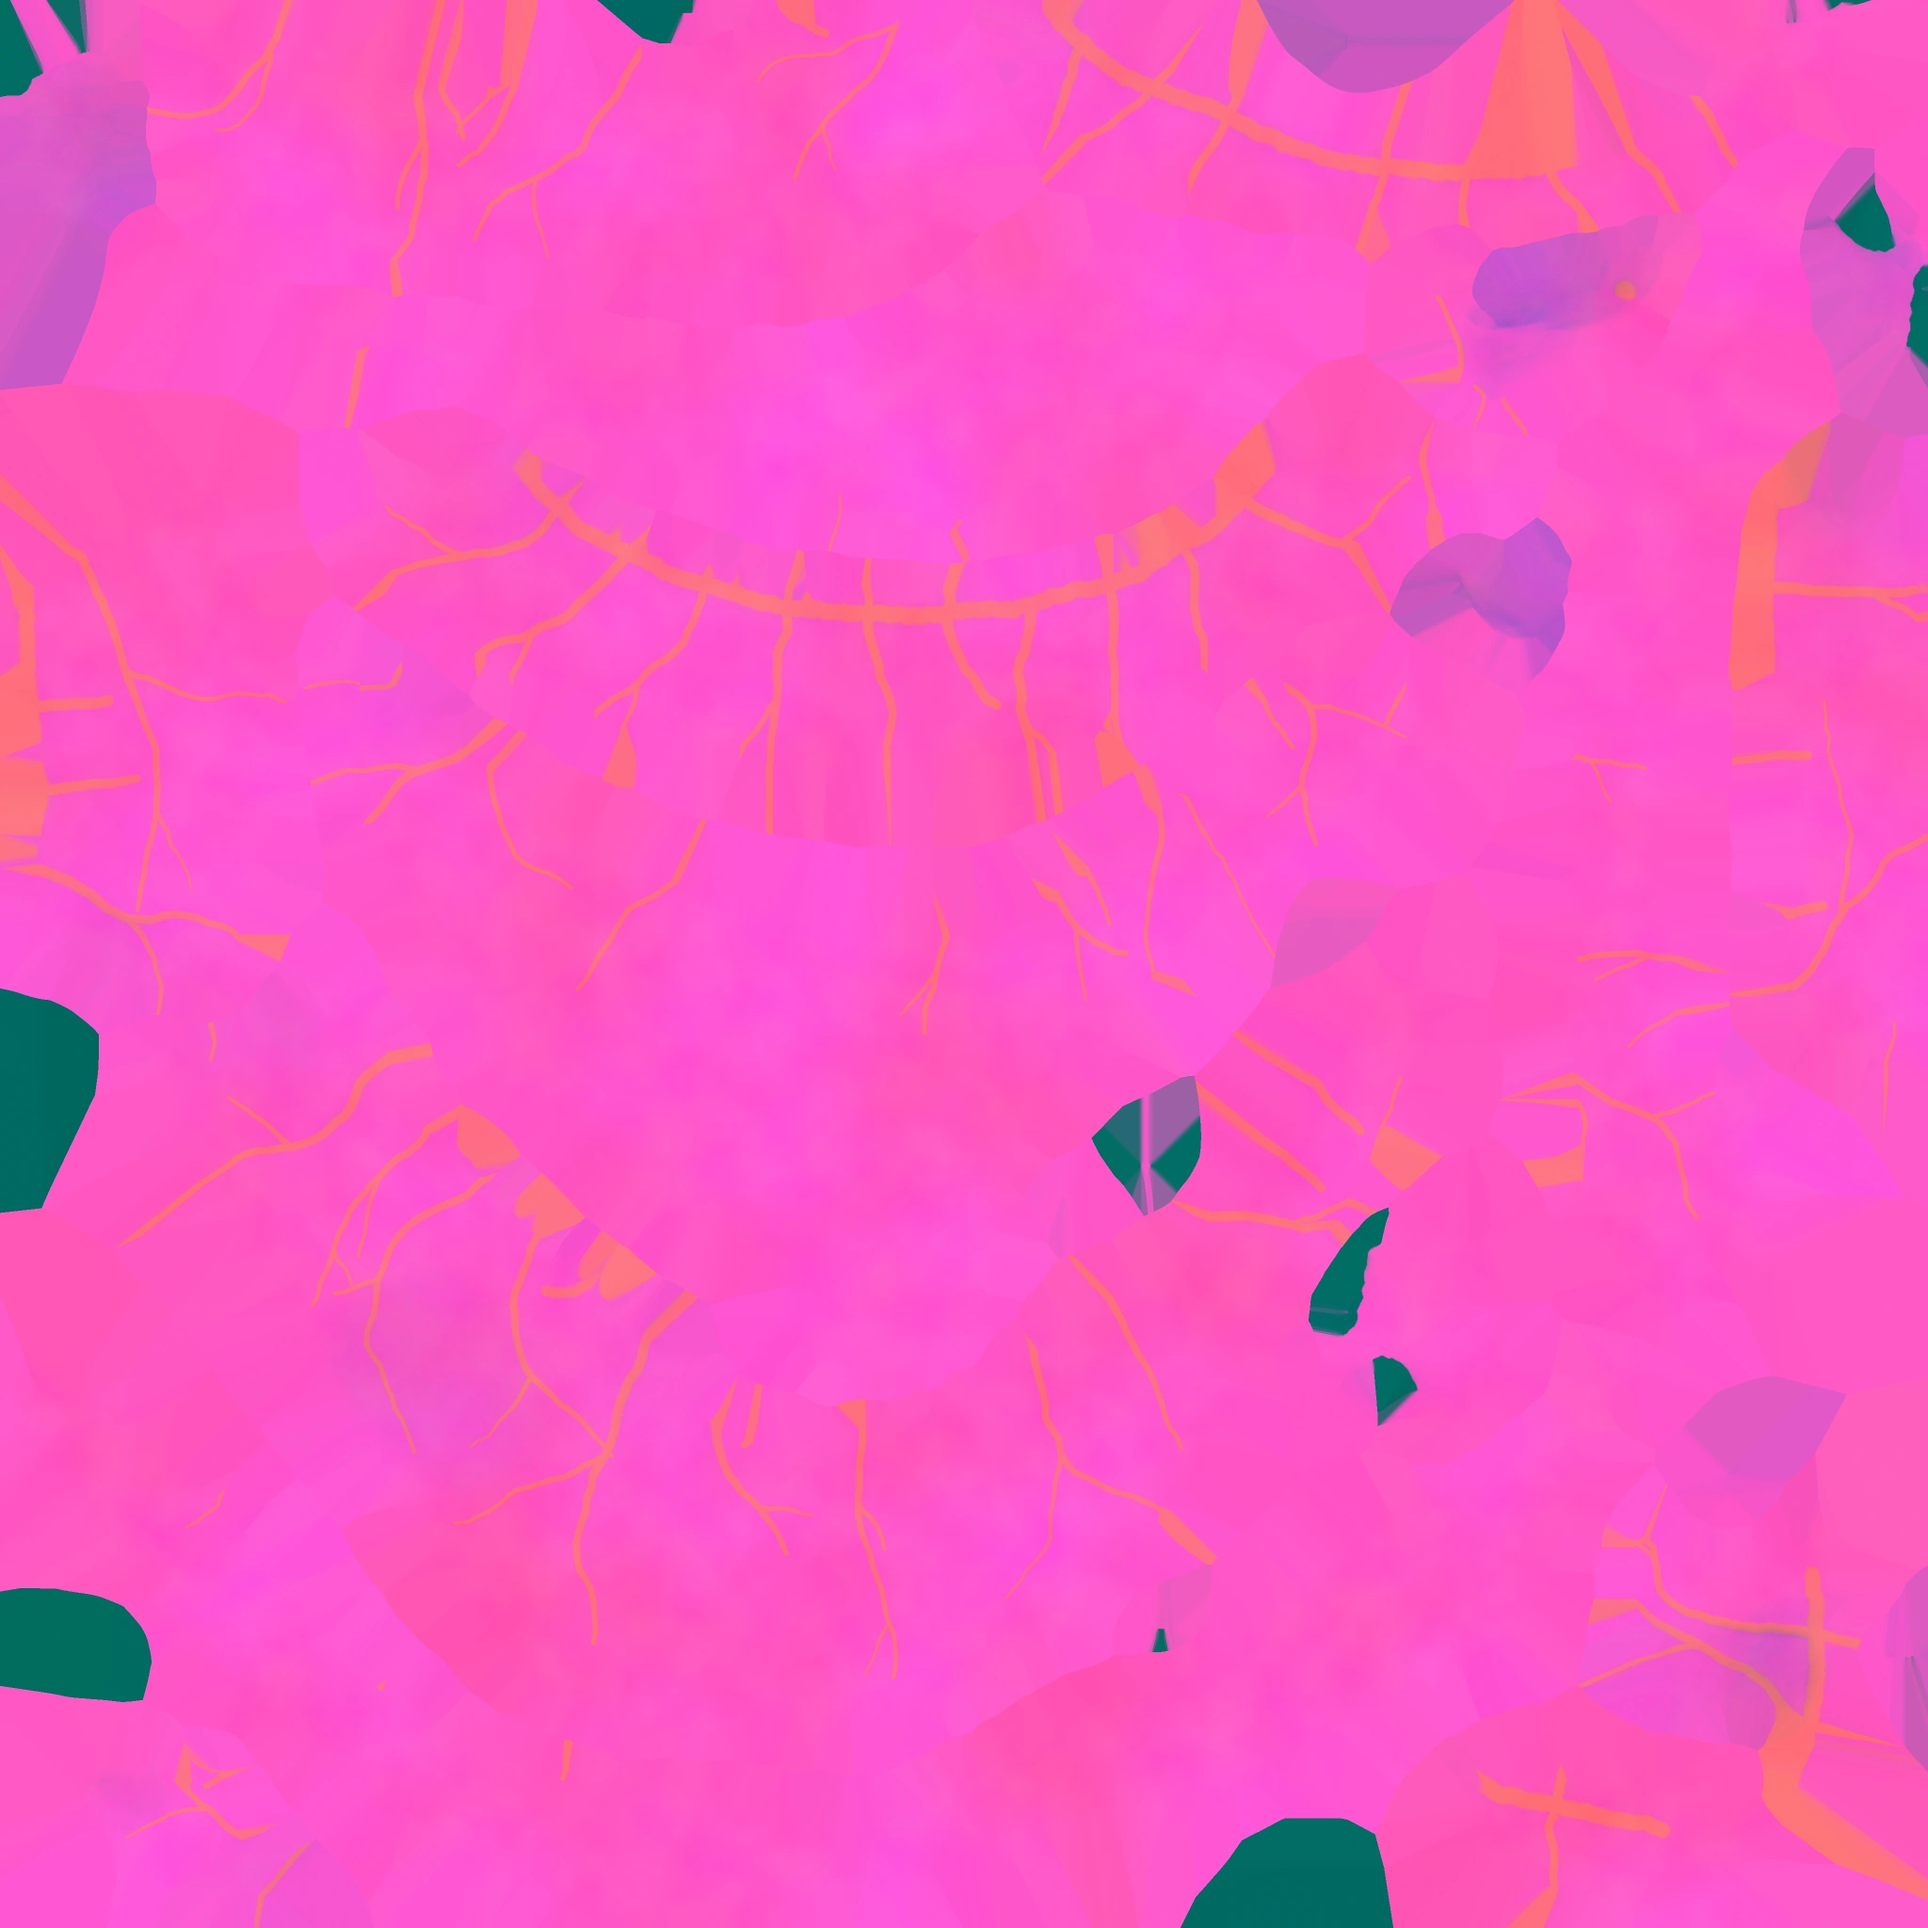
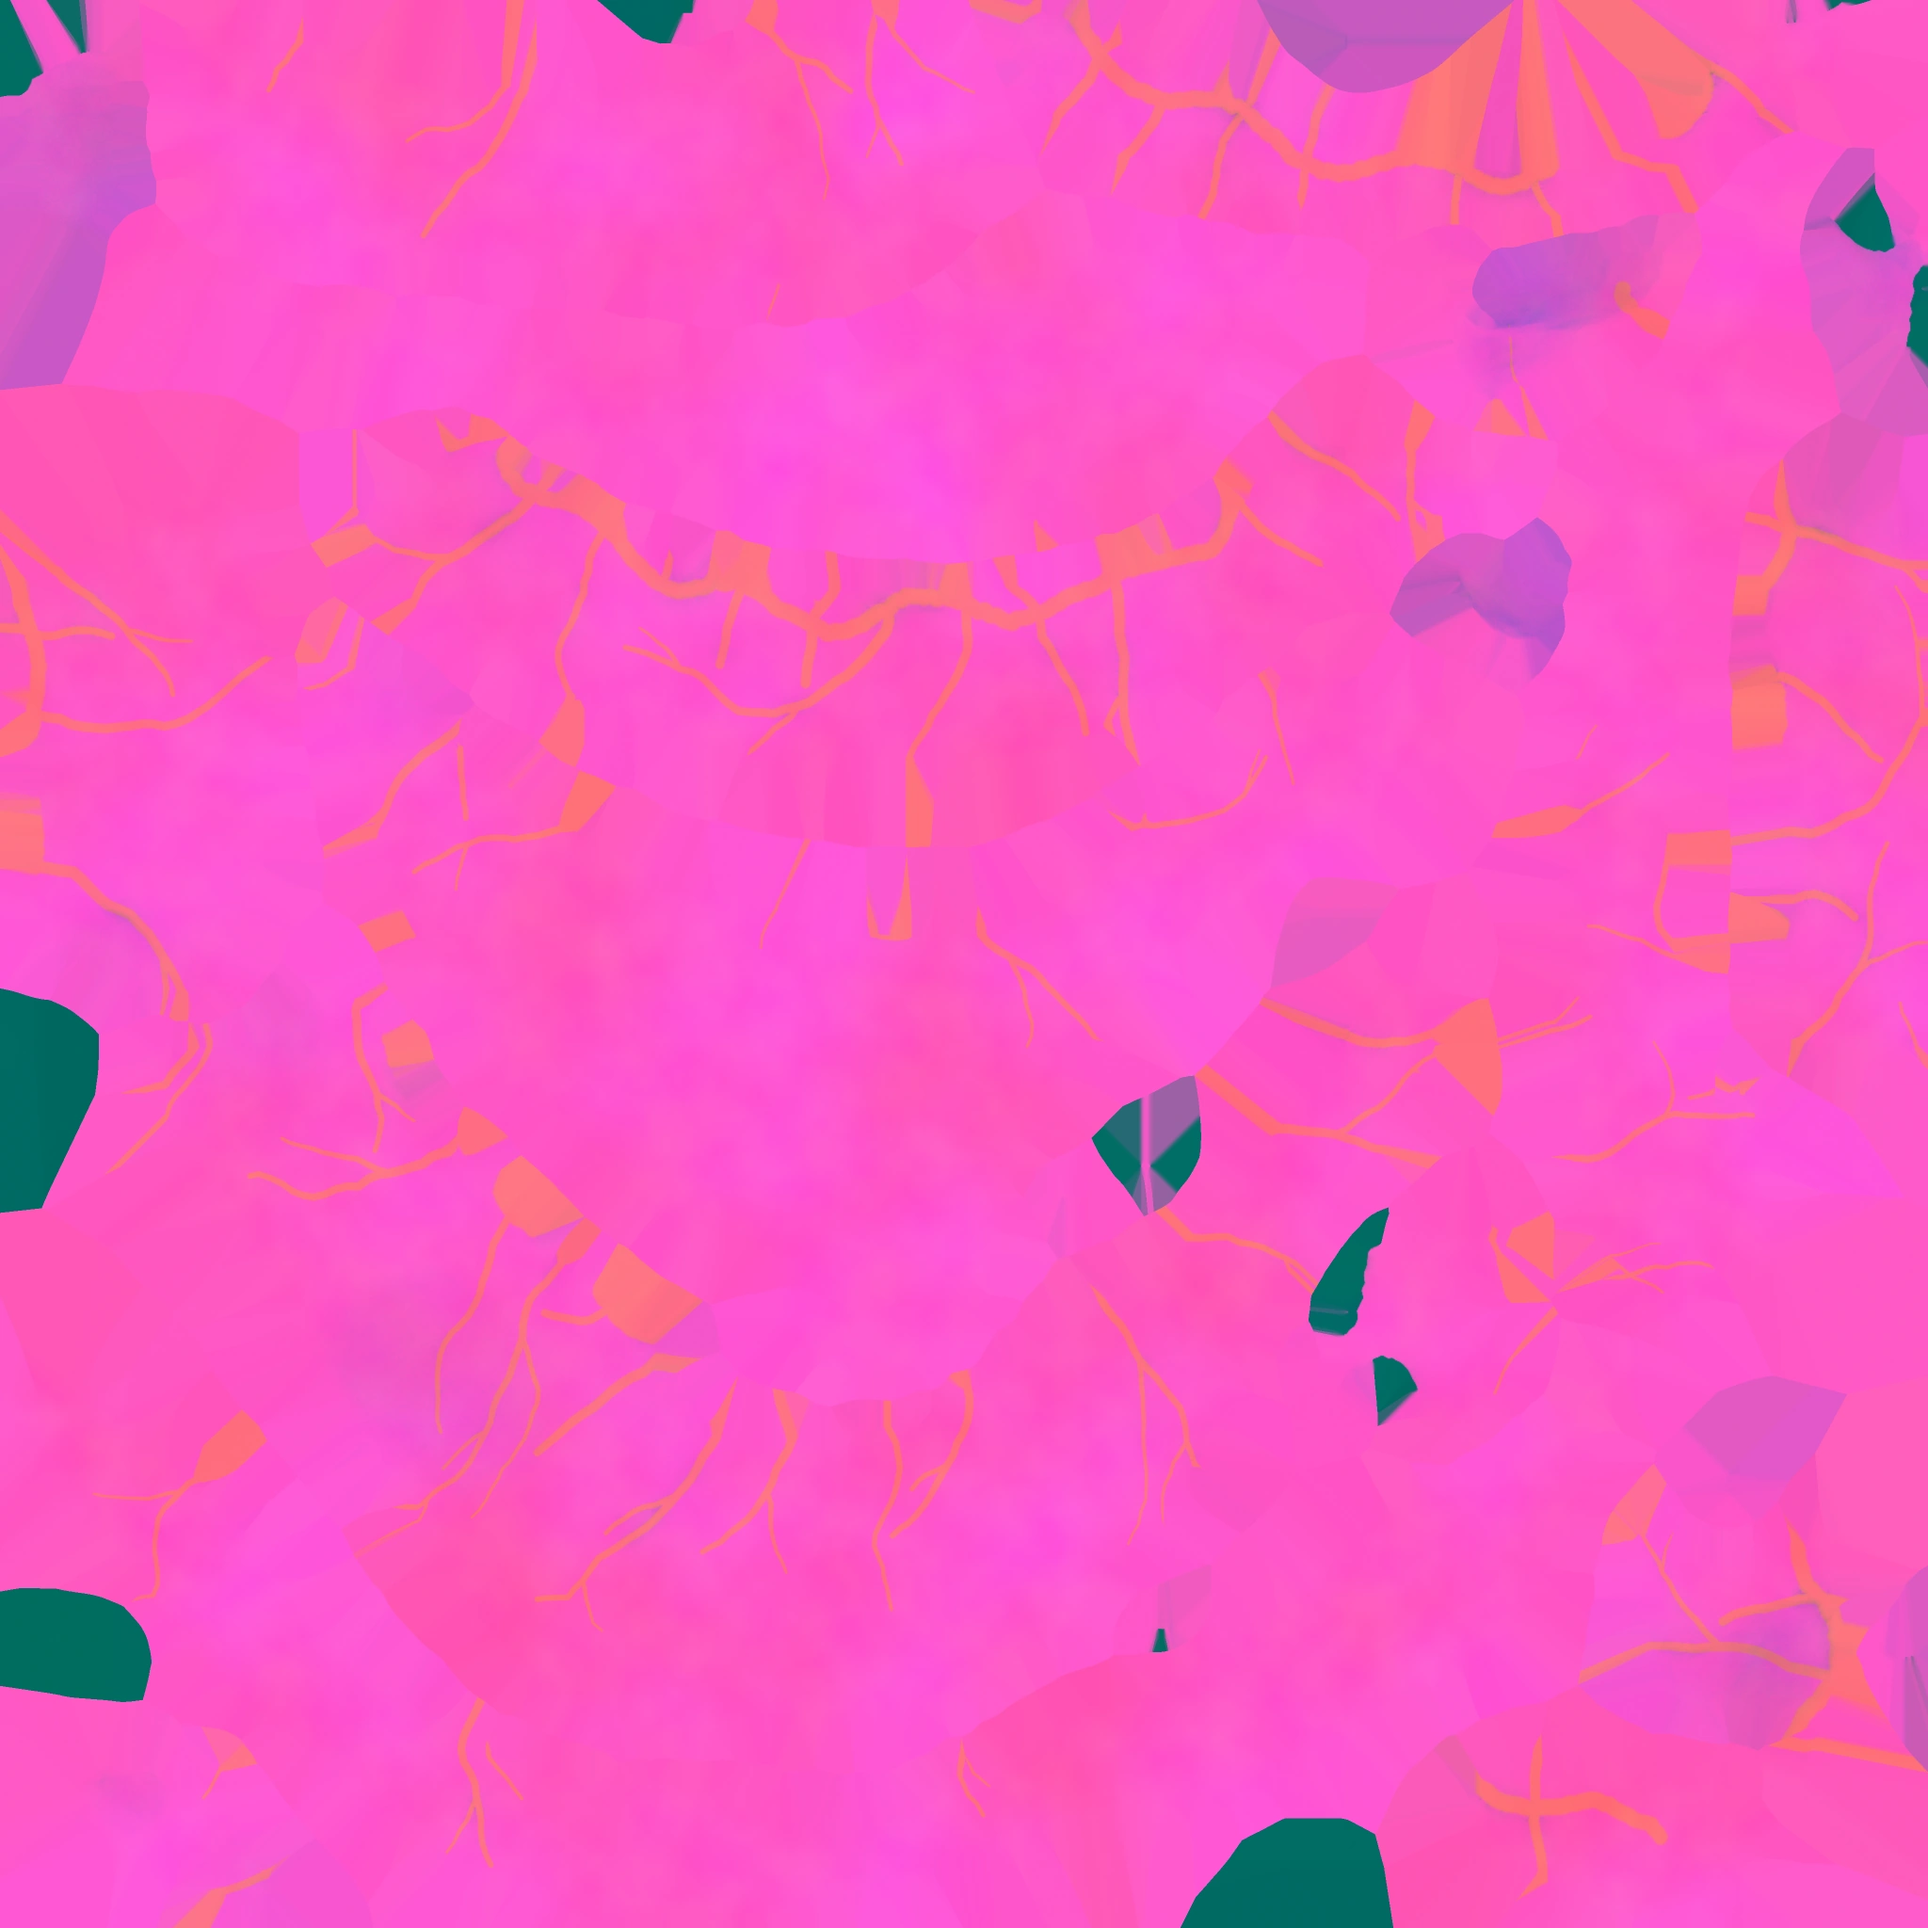
Task 3 (v46b): stomach, duodenum and oesophagus surfaces
- Stomach and duodenum: darker areas of tissue colour blending softly into the lighter serosa; the v44 subserosal vessel
  network (the old procedural skin's ridged, domain-warped network, rebuilt in 3D) added under the serosa as fine, soft,
  darker purple-red vessels, on top of the existing colour and relief (nothing smoothed away).
- The red surface vessels now vary in opacity along their course (sinking under the serosa in places), are raised in
  sections (up to ×2.6, nearly flat between), and the gastroepiploic / gastric arcades and the duodenal arcade follow a
  tortuous, irregular course instead of the smoothed curvature lines.
- Oesophagus: six pale, subserosal vessels running lengthwise in an irregular, tortuous course (as if in the
  longitudinal folds); no branches, no dark core, not raised.
All three map sets re-baked (UVs unchanged).

Claude-Session: https://claude.ai/code/session_01NbmsN7L12bzQ6FyRe6mrkM

diff --git a/pipeline/organs45.py b/pipeline/organs45.py
@@ -141,23 +141,41 @@ LAND = {   # CT frame landmarks (measured on the meshes)
     'dj': np.array([1.012, -1.557, 0.25]), 'oes_top': np.array([0.335, 1.325, -0.412]), 'head': np.array([0.0, -0.9, 0.35])}
 
 
+def tortuous(surf, P, amp, wav, seed):
+    """v46b: a curvature line made to wander across the surface: lateral offset of ±amp mm, mixing a slow sine
+    (wavelength ~wav mm) with fBm so the course is irregular, re-projected onto the surface every 0.5 mm"""
+    P = resample(P, 0.5 / MM); P, N = surf.project(P)
+    T = np.gradient(P, axis=0); T /= np.linalg.norm(T, axis=1, keepdims=True) + 1e-12
+    Lt = np.cross(N, T); Lt /= np.linalg.norm(Lt, axis=1, keepdims=True) + 1e-12
+    s = np.arange(len(P)) * 0.5
+    off = amp * (0.55 * np.sin(2 * np.pi * s / wav + seed) + 0.9 * fbm(np.c_[s / wav * 1.7, np.full(len(s), seed * 1.3), np.zeros(len(s))], 3, seed=seed))
+    Q, _ = surf.project(P + Lt * (off / MM)[:, None])
+    for _ in range(3): Q[1:-1] = (Q[:-2] + 2 * Q[1:-1] + Q[2:]) / 4                  # no kinks from the projection
+    Q, _ = surf.project(Q); return Q
+
+
 def vessels_for(organ, V, F, seed=45):
     rng = np.random.default_rng(seed); surf = Surface(V, F)
-    if organ == 'stomach':
+    if organ == 'stomach':   # v46b: the arcades wander (were the smoothed curvature lines)
         les, gre, _ = curvature_lines(V, F, LAND['goj'], LAND['pylorus'], 70)
-        return grow(surf, [(gre[2:-2], 0.95), (les[3:-2], 0.85)], rng, spacing=7.5, length=(26, 55), r0=0.55)
+        return grow(surf, [(tortuous(surf, gre[2:-2], 3.0, 22, 3), 0.95), (tortuous(surf, les[3:-2], 2.4, 18, 7), 0.85)],
+                    rng, spacing=7.5, length=(26, 55), r0=0.55)
     if organ == 'duodenum':
         med, _, _ = curvature_lines(V, F, LAND['pylorus'], LAND['dj'], 60, ref=LAND['head'])
-        return grow(surf, [(med[1:-1], 0.70)], rng, spacing=7.0, length=(16, 34), r0=0.45)
-    if organ == 'esophagus':
+        return grow(surf, [(tortuous(surf, med[1:-1], 2.2, 16, 11), 0.70)], rng, spacing=7.0, length=(16, 34), r0=0.45)
+    if organ == 'esophagus':   # v46b: longitudinal vessels in the folds: six irregular, tortuous vertical runs, no branches
         _, _, cen = curvature_lines(V, F, LAND['oes_top'], LAND['goj'], 40); arc = []
         T = np.gradient(cen, axis=0); T /= np.linalg.norm(T, axis=1, keepdims=True)
-        for a in np.radians([20, 200]):                                          # v46: two trunks (were four)
+        for k, a in enumerate(np.radians([10, 70, 130, 190, 250, 310])):
             u = np.cross(T, [1.0, 0, 0]); u /= np.linalg.norm(u, axis=1, keepdims=True); w = np.cross(T, u)
-            wig = 0.9 * fbm(np.c_[np.arange(len(cen)) * 0.35, np.full(len(cen), a), np.zeros(len(cen))], 2, seed=51)   # wandering, not straight
+            t = np.arange(len(cen)) * 0.35
+            wig = 0.30 * np.sin(t * 1.9 + k) + 0.45 * fbm(np.c_[t * 1.4, np.full(len(cen), a), np.zeros(len(cen))], 3, seed=51 + k)
             aa = a + wig
-            line = cen + (u * np.cos(aa)[:, None] + w * np.sin(aa)[:, None]) * 0.3; line, _ = surf.project(line); arc.append((line[1:-1], 0.42))
-        return grow(surf, arc, rng, spacing=16.0, length=(6, 12), r0=0.28, avoid=2.2, split=9.0, angle=45)   # v46: sparser, shorter (were 9 mm / 8–18 mm / 0.32)
+            line = cen + (u * np.cos(aa)[:, None] + w * np.sin(aa)[:, None]) * 0.3; line, _ = surf.project(line)
+            line = tortuous(surf, line[1 + k % 3:len(line) - 1 - (k * 2) % 4], 1.2, 7, 60 + k)   # fine irregular waves
+            r = (0.34 + 0.08 * rng.random()) * (0.75 + 0.25 * np.sin(np.linspace(0, np.pi, len(line))))   # thinner at the ends
+            arc.append((line, r / MM))
+        return arc
     # v46: the kidneys carry no surface vessels (v45 grew faint capsular vessels from the hilum)
     return []
 
@@ -173,8 +191,29 @@ def height(organ, X, vf=None):
         h = 0.0006 * fbm(X * 6.0, 2, seed=15) + 0.00025 * fbm(X * 45.0, 2, seed=16)       # smooth capsule
     if organ in ('kidney_left', 'kidney_right'):
         h = 0.0007 * fbm(X * 9.0, 3, seed=17) + 0.0003 * fbm(X * 60.0, 2, seed=18)
-    if vf is not None: h = h + vf(X)[2] * (0.4 if organ == 'esophagus' else 1.0)   # v46: oesophageal vessels barely raised
+    if vf is not None:
+        if organ in ('stomach', 'duodenum'):   # v46b: raised in sections (up to ×2.6), nearly flat between them
+            h = h + vf(X)[2] * (0.25 + 2.35 * vessel_raise(X))
+        else: h = h + vf(X)[2] * (0.0 if organ == 'esophagus' else 1.0)   # v46b: oesophageal vessels subserosal (flat)
     return h
+
+
+def vessel_raise(X):
+    """v46b: 0..1 along the vessels' course: where a gastric / duodenal vessel stands proud of the serosa"""
+    return ss(fbm(X * 9.0, 2, seed=91), -0.05, 0.35)
+
+
+def vessel_opacity(X):
+    """v46b: 0.3..1 along the vessels' course: where they surface (1) or sink under the serosa (faint, blurred)"""
+    return 0.3 + 0.7 * ss(fbm(X * 7.0 + 3.3, 2, seed=93), -0.30, 0.30)
+
+
+def subserosal(X):
+    """v46b: the v44 subserosal vessel network (the procedural skin's ridged, domain-warped noise, SKIN_TEX alpha),
+    rebuilt in 3D: fine dark vessels under the serosa, 0..1"""
+    w = X * 4.2 + 0.25 * np.stack([fbm(X * 4.2, 3, seed=95), fbm(X * 4.2 + 1.7, 3, seed=96), fbm(X * 4.2 + 3.9, 3, seed=97)], -1)
+    r1 = 1 - np.abs(fbm(w * 1.0, 3, seed=98)) * 2.2; r2 = 1 - np.abs(fbm(w * 2.0, 3, seed=99)) * 2.2
+    return np.maximum(ss(r1, 0.80, 0.96), 0.55 * ss(r2, 0.84, 0.97))
 
 
 def spleen_notches(X, N):
@@ -195,6 +234,13 @@ def compose(organ, X, ao, cav, curv, thick, onrm, vf=None):
         col = lin(base)[None] * (1 + 0.08 * m1 + 0.06 * m2 + 0.03 * m3)[:, None]
         pink = lin('#E4A294'); col = col * (1 - 0.10 * np.clip(m2, 0, 1))[:, None] + pink[None] * (0.10 * np.clip(m2, 0, 1))[:, None]
         rough = np.clip(0.34 + 0.06 * m2 + 0.08 * (1 - cav), 0.22, 0.60); wet = np.clip(0.80 + 0.2 * m1 - 0.4 * (1 - cav), 0, 1)
+        if organ in ('stomach', 'duodenum'):
+            # v46b: darker areas of tissue colour, blending softly into the lighter serosa (broad, low-frequency patches)
+            dk = ss(fbm(X * 2.4 + 5.1, 3, seed=101), -0.05, 0.45) * (0.6 + 0.4 * ss(fbm(X * 7.0, 2, seed=102), -0.3, 0.3))
+            col = col * (1 - 0.30 * dk)[:, None] + lin('#A8604F')[None] * (0.30 * dk)[:, None]
+        # v46b: the v44 subserosal network under the serosa (darker, purple-red, soft), in addition to the surface vessels
+        sub = subserosal(X) * {'stomach': 0.30, 'duodenum': 0.26, 'esophagus': 0.14}[organ]
+        col = col * (1 - sub)[:, None] + (col * lin('#9A4A62')[None] * 1.6) * sub[:, None]
     elif organ == 'spleen':
         col = lin('#5C2434')[None] * (1 + 0.06 * m1 + 0.03 * m2)[:, None]
         rough = np.clip(0.28 + 0.04 * m2, 0.2, 0.5); wet = np.clip(0.9 + 0.1 * m1, 0, 1)
@@ -206,6 +252,10 @@ def compose(organ, X, ao, cav, curv, thick, onrm, vf=None):
         pale, dark = lin('#C86E68'), lin('#5A1216')
         e = edge * (0.55 if organ.startswith('kidney') else 0.45 if organ == 'esophagus' else 0.85)   # v46: oesophagus fainter (was 0.85 / 0.80)
         c = core * (0.45 if organ.startswith('kidney') else 0.45 if organ == 'esophagus' else 0.80)
+        if organ in ('stomach', 'duodenum'):   # v46b: opacity varies along the course (sinking under the serosa in places)
+            op = vessel_opacity(X); e = e * op; c = c * op
+        if organ == 'esophagus':   # v46b: paler, subserosal: a soft pink-red line, no dark core
+            pale, dark = lin('#C98076'), lin('#A4525A'); e = edge * 0.42; c = core * 0.34
         col = col * (1 - e)[:, None] + pale[None] * e[:, None]; col = col * (1 - c)[:, None] + dark[None] * c[:, None]
         rough = np.clip(rough + 0.10 * edge, 0, 1); wet = wet * (1 - 0.35 * edge)   # vessels a little less glossy than the serosa
     col = col * (0.70 + 0.30 * ao ** 0.8)[:, None] * (0.88 + 0.12 * cav)[:, None]
